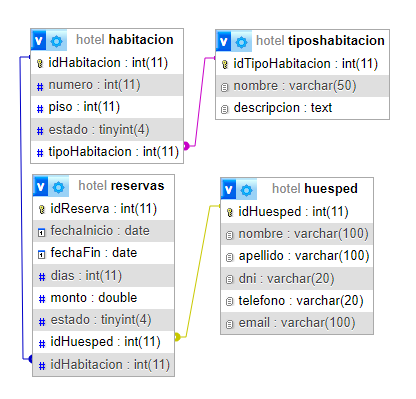
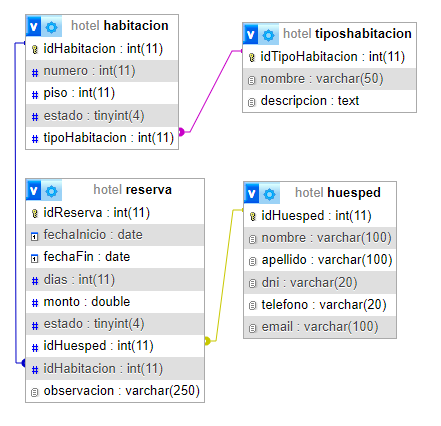
Creación de entidades y ajuste BD

diff --git a/src/Entidades/Reserva.java b/src/Entidades/Reserva.java
@@ -1,0 +1,115 @@
+package Entidades;
+
+import java.time.LocalDate;
+
+public class Reserva {
+
+    private int idReserva;
+    private LocalDate fechaInicio;
+    private LocalDate fechaFin;
+    private int dias;
+    private double monto;
+    private boolean estado;
+    private Huesped huesped;
+    private Habitacion habitacion;
+    private String observacion;
+
+    public Reserva() {
+    }
+
+    public Reserva(int idReserva, LocalDate fechaInicio, LocalDate fechaFin, int dias, double monto, boolean estado, Huesped huesped, Habitacion habitacion, String observacion) {
+        this.idReserva = idReserva;
+        this.fechaInicio = fechaInicio;
+        this.fechaFin = fechaFin;
+        this.dias = dias;
+        this.monto = monto;
+        this.estado = estado;
+        this.huesped = huesped;
+        this.habitacion = habitacion;
+        this.observacion = observacion;
+    }
+
+    public int getIdReserva() {
+        return idReserva;
+    }
+
+    public void setIdReserva(int idReserva) {
+        this.idReserva = idReserva;
+    }
+
+    public LocalDate getFechaInicio() {
+        return fechaInicio;
+    }
+
+    public void setFechaInicio(LocalDate fechaInicio) {
+        this.fechaInicio = fechaInicio;
+    }
+
+    public LocalDate getFechaFin() {
+        return fechaFin;
+    }
+
+    public void setFechaFin(LocalDate fechaFin) {
+        this.fechaFin = fechaFin;
+    }
+
+    public int getDias() {
+        return dias;
+    }
+
+    public void setDias(int dias) {
+        this.dias = dias;
+    }
+
+    public double getMonto() {
+        return monto;
+    }
+
+    public void setMonto(double monto) {
+        this.monto = monto;
+    }
+
+    public boolean isEstado() {
+        return estado;
+    }
+
+    public void setEstado(boolean estado) {
+        this.estado = estado;
+    }
+
+    public Huesped getHuesped() {
+        return huesped;
+    }
+
+    public void setHuesped(Huesped huesped) {
+        this.huesped = huesped;
+    }
+
+    public Habitacion getHabitacion() {
+        return habitacion;
+    }
+
+    public void setHabitacion(Habitacion habitacion) {
+        this.habitacion = habitacion;
+    }
+
+    public String getObservacion() {
+        return observacion;
+    }
+
+    public void setObservacion(String observacion) {
+        this.observacion = observacion;
+    }
+
+    @Override
+    public String toString() {
+        String estadoHabitacion = "";
+        if(estado){
+        estadoHabitacion = "Libre";
+        } else {
+            estadoHabitacion = "Ocupado";
+        }
+        return "idReserva: " + idReserva + ", Inicio: " + fechaInicio + ", Fin: " + fechaFin + ", Dias: " + dias + ", Monto: " + monto + ", Estado=" + estadoHabitacion + ", Huesped: " + huesped + ", Habitacion: " + habitacion + ", Observacion: " + observacion;
+    }
+    
+}

diff --git a/src/Entidades/Habitacion.java b/src/Entidades/Habitacion.java
@@ -1,11 +1,73 @@
-
 package Entidades;
 
 public class Habitacion {
-private int idHabitacion;
-private int numero;
-private int piso;
-private boolean estado;
-TipoHabitacion tipo;
+
+    private int idHabitacion;
+    private int numero;
+    private int piso;
+    private boolean estado;
+    TipoHabitacion tipo;
+
+    public Habitacion() {
+    }
+
+    public Habitacion(int idHabitacion, int numero, int piso, boolean estado, TipoHabitacion tipo) {
+        this.idHabitacion = idHabitacion;
+        this.numero = numero;
+        this.piso = piso;
+        this.estado = estado;
+        this.tipo = tipo;
+    }
+
+    public int getIdHabitacion() {
+        return idHabitacion;
+    }
+
+    public void setIdHabitacion(int idHabitacion) {
+        this.idHabitacion = idHabitacion;
+    }
+
+    public int getNumero() {
+        return numero;
+    }
+
+    public void setNumero(int numero) {
+        this.numero = numero;
+    }
+
+    public int getPiso() {
+        return piso;
+    }
+
+    public void setPiso(int piso) {
+        this.piso = piso;
+    }
+
+    public boolean isEstado() {
+        return estado;
+    }
+
+    public void setEstado(boolean estado) {
+        this.estado = estado;
+    }
+
+    public TipoHabitacion getTipo() {
+        return tipo;
+    }
+
+    public void setTipo(TipoHabitacion tipo) {
+        this.tipo = tipo;
+    }
+
+    @Override
+    public String toString() {
+        String estadoHabitacion = "";
+        if(estado){
+        estadoHabitacion = "Libre";
+        } else {
+            estadoHabitacion = "Ocupado";
+        }
+        return "Id: " + idHabitacion + ", N°: " + numero + ", Piso: " + piso + ", Estado: " + estadoHabitacion + ", Tipo: " + tipo;
+    }
 
 }

diff --git a/src/Entidades/Huesped.java b/src/Entidades/Huesped.java
@@ -1,0 +1,77 @@
+package Entidades;
+
+public class Huesped {
+
+    private int idHuesped;
+    private String nombre;
+    private String apellido;
+    private String dni;
+    private String telefono;
+    private String email;
+
+    public Huesped() {
+    }
+
+    public Huesped(int idHuesped, String nombre, String apellido, String dni, String telefono, String email) {
+        this.idHuesped = idHuesped;
+        this.nombre = nombre;
+        this.apellido = apellido;
+        this.dni = dni;
+        this.telefono = telefono;
+        this.email = email;
+    }
+
+    public int getIdHuesped() {
+        return idHuesped;
+    }
+
+    public void setIdHuesped(int idHuesped) {
+        this.idHuesped = idHuesped;
+    }
+
+    public String getNombre() {
+        return nombre;
+    }
+
+    public void setNombre(String nombre) {
+        this.nombre = nombre;
+    }
+
+    public String getApellido() {
+        return apellido;
+    }
+
+    public void setApellido(String apellido) {
+        this.apellido = apellido;
+    }
+
+    public String getDni() {
+        return dni;
+    }
+
+    public void setDni(String dni) {
+        this.dni = dni;
+    }
+
+    public String getTelefono() {
+        return telefono;
+    }
+
+    public void setTelefono(String telefono) {
+        this.telefono = telefono;
+    }
+
+    public String getEmail() {
+        return email;
+    }
+
+    public void setEmail(String email) {
+        this.email = email;
+    }
+
+    @Override
+    public String toString() {
+        return idHuesped + ", Nombre: " + nombre + ", Apellido: " + apellido + ", DNI: " + dni + ", Telefono: " + telefono + ", e-mail: " + email;
+    }
+
+}
